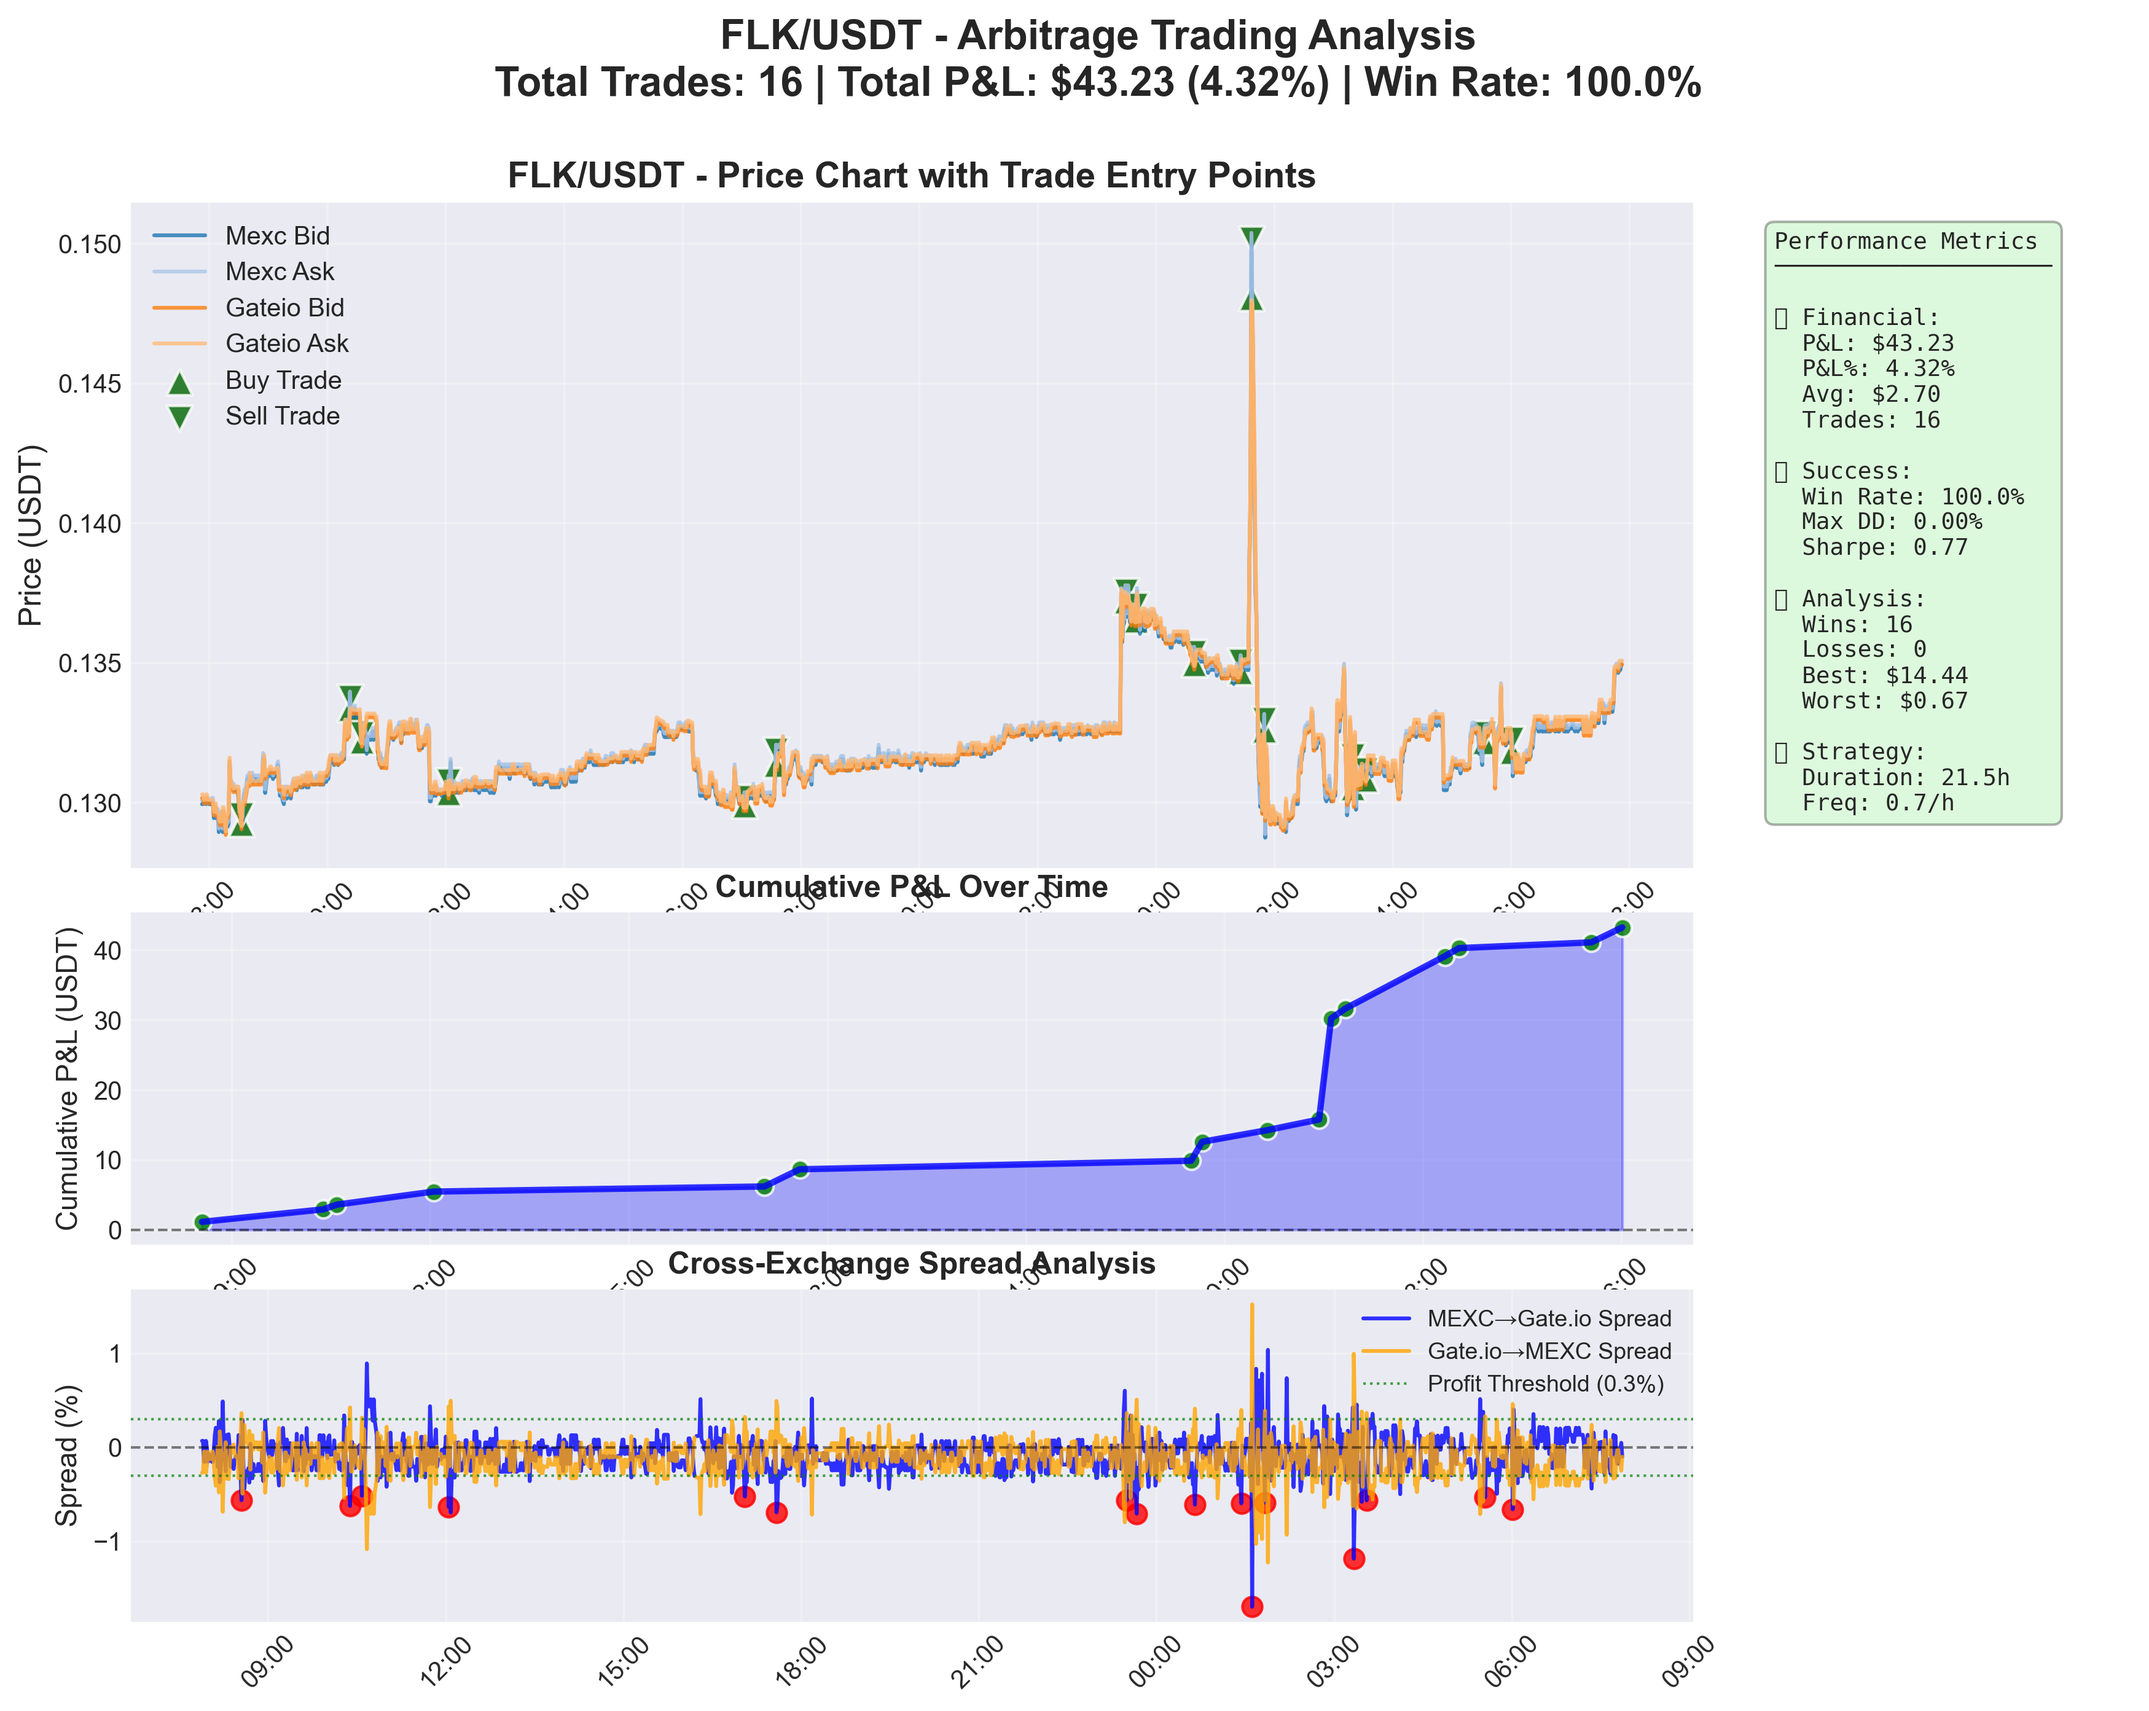
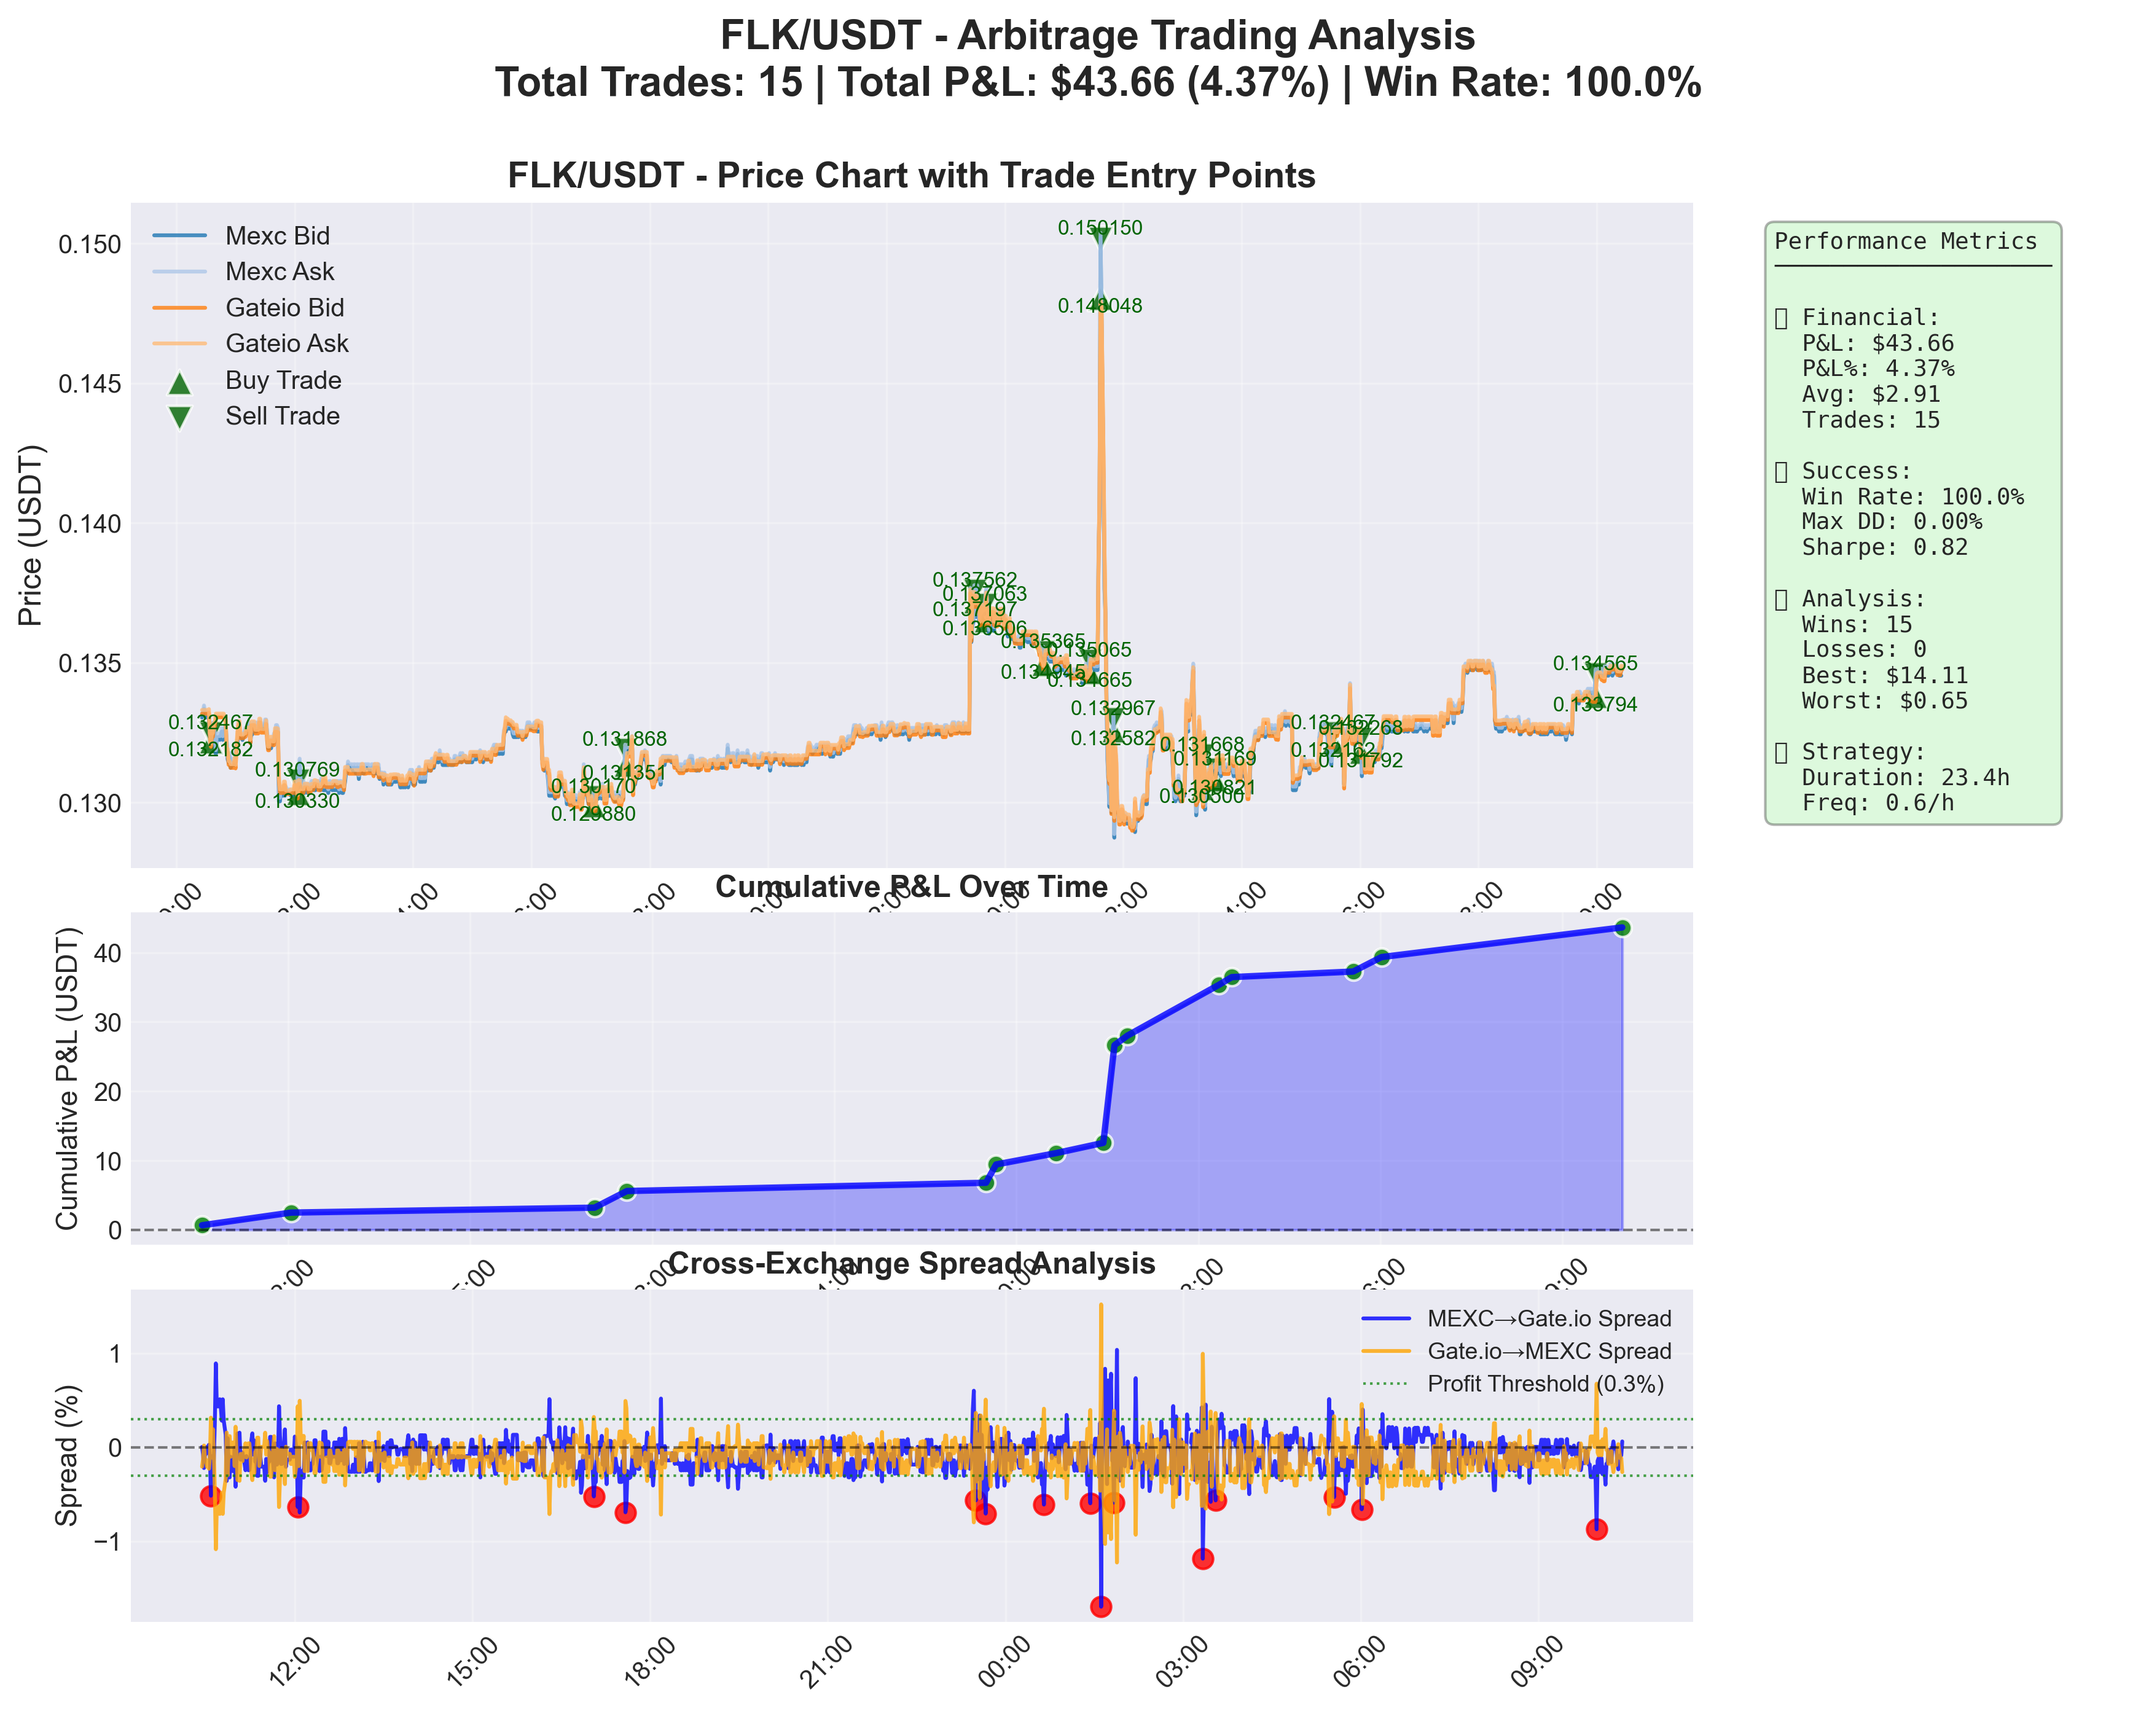
feat: analysis

diff --git a/src/trading/signals_v2/report_utils.py b/src/trading/signals_v2/report_utils.py
@@ -5,7 +5,7 @@ This module provides comprehensive reporting and analysis tools for cryptocurren
 arbitrage trading strategies, including trade tables and performance metrics visualization.
 """
 
-from typing import List
+from typing import List, Dict, Any, Optional
 from datetime import datetime
 from .entities import ArbitrageTrade, PerformanceMetrics
 
@@ -85,48 +85,7 @@ def performance_metrics_table(metrics_list: List[PerformanceMetrics], include_he
 
     return "\n".join(lines)
 
-
-def validate_performance_metrics(metrics: PerformanceMetrics) -> List[str]:
-    """
-    Validate performance metrics for realistic arbitrage trading results.
-    
-    This function checks for unrealistic performance characteristics that may
-    indicate bugs in strategy implementation or overly optimistic assumptions.
-    
-    Args:
-        metrics: Performance metrics to validate
-        
-    Returns:
-        List of warning messages for unrealistic metrics
-    """
-    warnings = []
-    
-    # Check for unrealistic win rate
-    if metrics.win_rate > 90:
-        warnings.append(f"⚠  Win rate {metrics.win_rate:.1f}% is unrealistically high for arbitrage (expected: 65-85%)")
-    
-    # Check for unrealistic average trade P&L
-    if metrics.avg_trade_pnl > 5.0:  # $5 per trade is very high for arbitrage
-        warnings.append(f"⚠  Average trade P&L ${metrics.avg_trade_pnl:.2f} is very high (expected: $0.10-$2.00)")
-    
-    # Check for zero max drawdown
-    if metrics.max_drawdown == 0 and metrics.total_trades > 5:
-        warnings.append("⚠  Zero max drawdown is unrealistic for multi-trade strategies")
-    
-    # Check for unrealistic Sharpe ratio
-    if metrics.sharpe_ratio > 3.0:
-        warnings.append(f"⚠  Sharpe ratio {metrics.sharpe_ratio:.2f} is unusually high (expected: 0.5-2.0)")
-    
-    # Check individual trade P&L percentages
-    if metrics.trades:
-        high_pnl_trades = [t for t in metrics.trades if t.pnl_pct > 2.0]  # >2% per trade
-        if len(high_pnl_trades) > len(metrics.trades) * 0.1:  # >10% of trades
-            warnings.append(f"⚠  {len(high_pnl_trades)} trades show >2% P&L (may indicate cost modeling issues)")
-    
-    return warnings
-
-
-def generate_performance_summary(metrics: PerformanceMetrics, include_warnings: bool = True) -> str:
+def generate_performance_summary(metrics: PerformanceMetrics) -> str:
     """
     Generate comprehensive performance summary with validation warnings.
     
@@ -143,18 +102,6 @@ def generate_performance_summary(metrics: PerformanceMetrics, include_warnings: 
     lines.append("PERFORMANCE SUMMARY")
     lines.append("=" * 50)
     lines.append(performance_metrics_table([metrics], include_header=True))
-    
-    if include_warnings:
-        warnings = validate_performance_metrics(metrics)
-        if warnings:
-            lines.append("")
-            lines.append("VALIDATION WARNINGS")
-            lines.append("=" * 50)
-            for warning in warnings:
-                lines.append(warning)
-        else:
-            lines.append("")
-            lines.append("✅ All metrics appear realistic for arbitrage trading")
     
     # Trade statistics
     if metrics.trades:
@@ -176,4 +123,37 @@ def generate_performance_summary(metrics: PerformanceMetrics, include_warnings: 
             avg_loss = sum(t.pnl_usdt for t in losing_trades) / len(losing_trades)
             lines.append(f"Average losing trade: ${avg_loss:.2f}")
     
+    return "\n".join(lines)
+
+def generate_generic_report(items: Dict[str, Any], title: Optional[str] = None,
+                            offset: int = 0) -> str:
+    """
+    Generate a generic report from a dictionary of items.
+
+    Args:
+        items: Dictionary of items to report
+        title: Title of the report
+    Returns:
+        Formatted report string
+    """
+    lines = []
+    if title:
+        lines.append(title)
+        lines.append("=" * len(title))
+
+    for key, value in items.items():
+        if isinstance(value, Dict):
+            lines.append(f"{' '*offset}{key}:")
+            sub_offset = offset+2
+            if any(isinstance(v, Dict) for v in value.values()):
+                lines.append(generate_generic_report(value, offset=sub_offset))
+            else:
+                lines.append(f'{" "*sub_offset}' + f" | ".join([f'{k}: {v}' for k, v in value.items()]))
+            continue
+
+        if isinstance(value, float):
+            value = f"{value:.2f}"
+
+        lines.append(f"{" "*offset}{key:>10} {value}")
+
     return "\n".join(lines)

diff --git a/src/trading/signals_v2/visualization.py b/src/trading/signals_v2/visualization.py
@@ -139,20 +139,23 @@ class ArbitrageVisualization:
                 buy_trades.append((trade.timestamp, trade.buy_price, trade.buy_exchange, trade.pnl_usdt))
             if trade.sell_exchange in [ExchangeEnum.MEXC, ExchangeEnum.GATEIO]:
                 sell_trades.append((trade.timestamp, trade.sell_price, trade.sell_exchange, trade.pnl_usdt))
-        
+        ax.xaxis_date()
         # Plot buy markers
         for timestamp, price, exchange, pnl in buy_trades:
             color = 'darkgreen' if pnl > 0 else 'darkred'
             ax.scatter(timestamp, price, **self.trade_markers['buy'], 
                       color=color, alpha=0.8, edgecolors='white', linewidth=1,
                       label='Buy Trade' if timestamp == buy_trades[0][0] else "")
-        
+            ax.text(timestamp, price, f'{price:.6f}', fontsize=8, ha='center', va='top', color=color)
+
         # Plot sell markers
         for timestamp, price, exchange, pnl in sell_trades:
             color = 'darkgreen' if pnl > 0 else 'darkred'
             ax.scatter(timestamp, price, **self.trade_markers['sell'], 
                       color=color, alpha=0.8, edgecolors='white', linewidth=1,
                       label='Sell Trade' if timestamp == sell_trades[0][0] else "")
+            ax.text(timestamp, price, f'{price:.6f}', fontsize=8, ha='center', va='bottom', color=color)
+
         
         ax.set_title(f'{symbol_name} - Price Chart with Trade Entry Points', fontsize=14, fontweight='bold')
         ax.set_ylabel('Price (USDT)', fontsize=12)

diff --git a/src/trading/signals_v2/signal_backtester.py b/src/trading/signals_v2/signal_backtester.py
@@ -18,7 +18,7 @@ from trading.signals_v2.strategy_signal import StrategySignal
 from trading.data_sources.book_ticker.book_ticker_source import (BookTickerDbSource, CandlesBookTickerSource,
                                                             BookTickerSourceProtocol)
 
-from trading.signals_v2.report_utils import arbitrage_trade_to_table, performance_metrics_table
+from trading.signals_v2.report_utils import arbitrage_trade_to_table, performance_metrics_table, generate_generic_report
 from trading.signals_v2.visualization import visualize_arbitrage_results
 type BacktestDataSource = Literal['candles', 'snapshot']
 
@@ -111,7 +111,11 @@ class SignalBacktester:
         )
 
         result = await self.run_single_backtest(strategy, df)
-        print(f"{strategy.name} Performance:")
+        print(f'* STRATEGY: {strategy.name}')
+        print('*'*20)
+        print(f"Analysis:")
+        print(generate_generic_report(strategy.analysis_results))
+        print(f"Performance:")
         print(performance_metrics_table([result], True))
         print("Trades")
         print(arbitrage_trade_to_table(result.trades, include_header=True))

diff --git a/src/trading/signals_v2/implementation/inventory_spot_strategy_signal.py b/src/trading/signals_v2/implementation/inventory_spot_strategy_signal.py
@@ -87,6 +87,7 @@ class InventorySpotStrategySignal(StrategySignal):
         self._max_history_length = max_history_length
 
         self._backtesting_params = backtesting_params
+        self.analysis_results = {}
 
     def _update_price_history(self, book_tickers: Dict[ExchangeEnum, BookTicker]) -> None:
         """Update price history for volatility calculation."""
@@ -356,4 +357,5 @@ class InventorySpotStrategySignal(StrategySignal):
 
             results[v] = item
 
+        self.analysis_results = results
         return results
